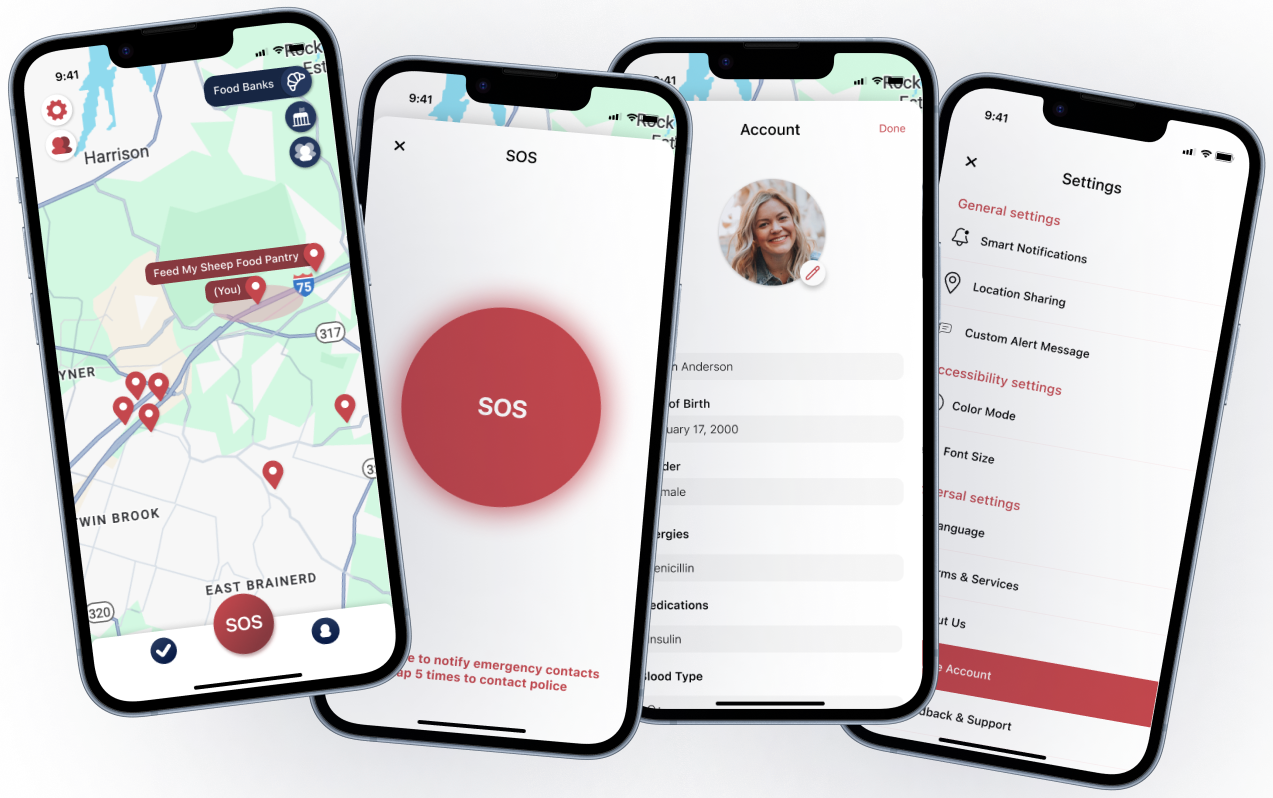
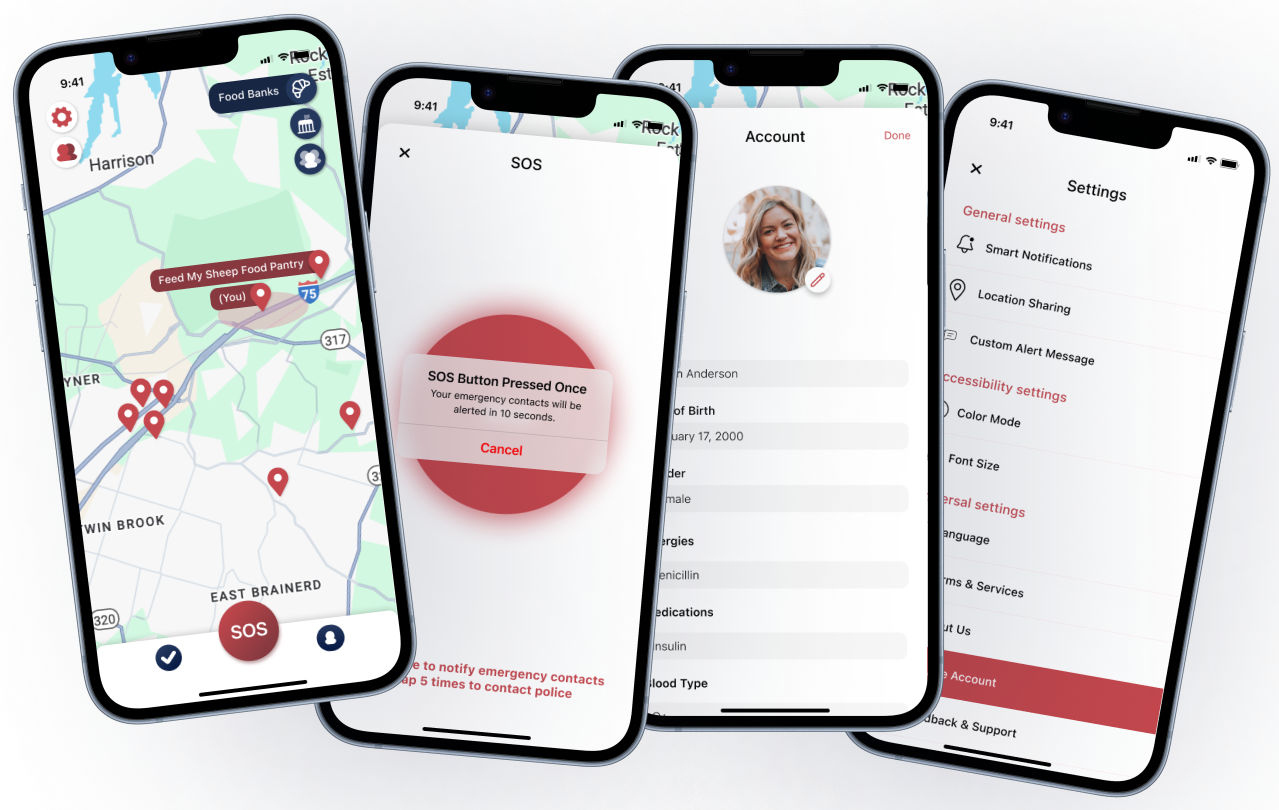
sorora modal content - included photos and minor fixes to styling

diff --git a/src/App.tsx b/src/App.tsx
@@ -1,6 +1,10 @@
 import './App.css'
 import profilePic from './assets/profile.png';
-import screens from './assets/4screens.png'
+import screens from './assets/4screens.png';
+import iterationOne from './assets/iterations/iterationOne/Interation1_4Screens.png';
+import iterationThree from './assets/iterations/iterationThree/Iteration3_2Screens.png';
+import iterationFinal from './assets/iterations/iterationFinal/iterationFinal_MapView.png';
+// import deleteAcctGif from './assets/iterations/iterationFinal/IterationFinal_DeleteAccount.gif';
 import { useState, useEffect } from 'react';
 
 export default function App() {
@@ -14,11 +18,20 @@ export default function App() {
       const sections = ['overview', 'problems', 'research', 'iterations', 'impact'];
       const scrollContainer = e.target as HTMLElement;
       
+      // Check if scrolled to bottom
+      const isAtBottom = scrollContainer.scrollHeight - scrollContainer.scrollTop <= scrollContainer.clientHeight + 10;
+      
+      if (isAtBottom) {
+        setActiveSection('impact');
+        return;
+      }
+
       for (let i = sections.length - 1; i >= 0; i--) {
         const element = document.getElementById(sections[i]);
         if (element) {
           const rect = element.getBoundingClientRect();
-          if (rect.top <= 200) {
+          const containerRect = scrollContainer.getBoundingClientRect();
+          if (rect.top - containerRect.top <= 200) {
             setActiveSection(sections[i]);
             break;
           }
@@ -471,7 +484,7 @@ export default function App() {
                   marginBottom: '40px',
                   lineHeight: '1.5'
                 }}>
-                  Redesigning a personal safety app to be faster, more accessible, and genuinely usable in high-stress moments.
+                  Redesigning a personal safety app to be faster, more accessible, and usable in high-stress situations.
                 </p>
  
                 <div style={{
@@ -562,27 +575,27 @@ export default function App() {
                     We evaluated the MVP against Jakob Nielsen's Usability Heuristics and found three critical issues:
                   </p>
  
-                  <div style={{ backgroundColor: '#1a1a1a', padding: '24px', borderRadius: '12px', marginBottom: '20px' }}>
-                    <h4 style={{ fontSize: 'clamp(18px, 2vw, 20px)', marginTop: '0', marginBottom: '16px', fontWeight: 600 }}>No user control or wayfinding</h4>
-                    <ul style={{ marginLeft: '20px', color: '#ccc' }}>
+                  <div style={{ backgroundColor: '#FBF3E4', padding: '24px', borderRadius: '12px', marginBottom: '20px' }}>
+                    <h4 style={{ fontSize: 'clamp(18px, 2vw, 20px)', marginTop: '0', marginBottom: '16px', fontWeight: 600, color: '#36291E' }}>No user control or wayfinding</h4>
+                    <ul style={{ marginLeft: '20px', marginBottom: 0,  color: '#36291E' }}>
                       <li style={{ marginBottom: '8px' }}>No visual indicators showing the user's current location in the app</li>
                       <li style={{ marginBottom: '8px' }}>Navigation relied entirely on a back button — no save or exit options</li>
                       <li style={{ marginBottom: '8px' }}>Violated "Recognition over Recall" by forcing users to mentally track their own flow</li>
                     </ul>
                   </div>
  
-                  <div style={{ backgroundColor: '#1a1a1a', padding: '24px', borderRadius: '12px', marginBottom: '20px' }}>
-                    <h4 style={{ fontSize: 'clamp(18px, 2vw, 20px)', marginTop: '0', marginBottom: '16px', fontWeight: 600 }}>Accidental SOS triggers</h4>
-                    <ul style={{ marginLeft: '20px', color: '#ccc' }}>
+                  <div style={{ backgroundColor: '#FBF3E4', padding: '24px', borderRadius: '12px', marginBottom: '20px' }}>
+                    <h4 style={{ fontSize: 'clamp(18px, 2vw, 20px)', marginTop: '0', marginBottom: '16px', fontWeight: 600, color: '#36291E' }}>Accidental SOS triggers</h4>
+                    <ul style={{ marginLeft: '20px', marginBottom: 0, color: '#36291E' }}>
                       <li style={{ marginBottom: '8px' }}>Emergency button could be activated too easily, risking accidental contact with law enforcement</li>
                       <li style={{ marginBottom: '8px' }}>Multi-step flows increased cognitive load in urgent situations</li>
                       <li style={{ marginBottom: '8px' }}>No confirmation or error prevention in place</li>
                     </ul>
                   </div>
  
-                  <div style={{ backgroundColor: '#1a1a1a', padding: '24px', borderRadius: '12px', marginBottom: '40px' }}>
-                    <h4 style={{ fontSize: 'clamp(18px, 2vw, 20px)', marginTop: '0', marginBottom: '16px', fontWeight: 600 }}>Visual overload, no hierarchy</h4>
-                    <ul style={{ marginLeft: '20px', color: '#ccc' }}>
+                  <div style={{ backgroundColor: '#FBF3E4', padding: '24px', borderRadius: '12px', marginBottom: '30px' }}>
+                    <h4 style={{ fontSize: 'clamp(18px, 2vw, 20px)', marginTop: '0', marginBottom: '16px', fontWeight: 600, color: '#36291E' }}>Visual overload, no hierarchy</h4>
+                    <ul style={{ marginLeft: '20px', marginBottom: 0, color: '#36291E' }}>
                       <li style={{ marginBottom: '8px' }}>No clear visual hierarchy — hard to identify the app's primary purpose at a glance</li>
                       <li style={{ marginBottom: '8px' }}>Interactive and static elements looked the same</li>
                       <li style={{ marginBottom: '8px' }}>Settings were fragmented across too many screens with minimal content per page</li>
@@ -600,39 +613,66 @@ export default function App() {
  
                   <h3 id="iterations" style={{ fontSize: 'clamp(24px, 3vw, 32px)', marginTop: '50px', marginBottom: '20px', fontWeight: 600 }}>Design iterations</h3>
                   
-                  <div style={{ marginBottom: '30px' }}>
+                  <div style={{marginBottom: '10px'}}>
                     <h4 style={{ fontSize: 'clamp(18px, 2vw, 20px)', marginBottom: '12px', fontWeight: 600 }}>Iteration 1</h4>
-                    <ul style={{ marginLeft: '20px', color: '#fff' }}>
+                    <ol style={{ marginLeft: '20px'}}>
                       <li style={{ marginBottom: '8px' }}>Introduced a map-centric home page</li>
                       <li style={{ marginBottom: '8px' }}>Established a pink color scheme</li>
                       <li style={{ marginBottom: '8px' }}>Defined the key action pages</li>
-                    </ul>
+                    </ol>
+
+                    <img src={iterationOne} style={{ 
+                      width: '100%',
+                      height: 'auto',
+                      borderRadius: '12px',
+                      marginBottom: '5px'
+                    }} alt="Sorora app design iteration one" />
                   </div>
  
-                  <div style={{ marginBottom: '30px' }}>
+                  <div style={{ marginBottom: '10px' }}>
                     <h4 style={{ fontSize: 'clamp(18px, 2vw, 20px)', marginBottom: '12px', fontWeight: 600 }}>Iteration 2</h4>
-                    <ul style={{ marginLeft: '20px', color: '#fff' }}>
+                    <ol style={{ marginLeft: '20px', color: '#fff' }}>
                       <li style={{ marginBottom: '8px' }}>Doubled down on the pink color scheme</li>
                       <li style={{ marginBottom: '8px' }}>Increased touch target and font sizes for better ergonomics</li>
-                    </ul>
+                    </ol>
                   </div>
  
                   <div style={{ marginBottom: '30px' }}>
                     <h4 style={{ fontSize: 'clamp(18px, 2vw, 20px)', marginBottom: '12px', fontWeight: 600 }}>Iteration 3</h4>
-                    <ul style={{ marginLeft: '20px', color: '#fff' }}>
+                    <ol style={{ marginLeft: '20px', color: '#fff' }}>
                       <li style={{ marginBottom: '8px' }}>Replaced pink palette after it failed WCAG contrast standards</li>
                       <li style={{ marginBottom: '8px' }}>Swapped column layout for a scrollable layout on contact/profile editing</li>
                       <li style={{ marginBottom: '8px' }}>Added confirmation alerts for SOS and edit actions to prevent errors</li>
-                    </ul>
+                    </ol>
+
+                    <img src={iterationThree} style={{ 
+                      width: '50%',
+                      height: 'auto',
+                      borderRadius: '12px',
+                      marginBottom: '10px'
+                    }} alt="Sorora app design iteration three" />
                   </div>
  
                   <div style={{ marginBottom: '40px' }}>
                     <h4 style={{ fontSize: 'clamp(18px, 2vw, 20px)', marginBottom: '12px', fontWeight: 600 }}>Final</h4>
-                    <ul style={{ marginLeft: '20px', color: '#fff' }}>
+                    <ol style={{ marginLeft: '20px', color: '#fff' }}>
                       <li style={{ marginBottom: '8px' }}>Dropped Life360-style map view selector in favor of a cleaner button approach</li>
                       <li style={{ marginBottom: '8px' }}>Added safeguards to the delete account flow</li>
-                      <li style={{ marginBottom: '8px' }}>Delivered the final design system</li>
-                    </ul>
+                    </ol>
+
+                    <img src={iterationFinal} style={{ 
+                      width: '50%',
+                      height: 'auto',
+                      borderRadius: '12px',
+                      marginBottom: '10px'
+                    }} alt="Sorora app design iteration three" />
+                    {/* <img src={deleteAcctGif} style={{ 
+                      width: '50%',
+                      height: 'auto',
+                      borderRadius: '12px',
+                      marginBottom: '50px',
+                    }} alt="Sorora app design iteration three" /> */}
+
                   </div>
  
                   <h3 id="impact" style={{ fontSize: 'clamp(24px, 3vw, 32px)', marginTop: '50px', marginBottom: '20px', fontWeight: 600 }}>Impact</h3>
